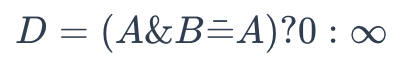
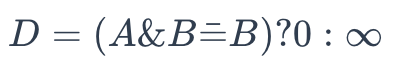
update metrics.md

diff --git a/site/en/reference/metric.md b/site/en/reference/metric.md
@@ -123,6 +123,34 @@ For example, suppose there are two strings, 1101 1001 and 1001 1101.
 
 11011001 ⊕ 10011101 = 01000100. Since, this contains two 1s, the Hamming distance, d (11011001, 10011101) = 2.
 
+### Structural Similarity
+
+When a chemical structure occurs as a part of a larger chemical structure, the former is called a substructure and the latter is called a superstructure. For example, ethanol is a substructure of acetic acid, and acetic acid is a superstructure of ethanol.
+
+Structural similarity is used to determine whether two chemical formulae are similar to each other in that one is the superstructure or substructure of the other.
+
+To determine whether A is a superstructure of B, use the following formula:
+
+![superstructure](../../../assets/superstructure.png "Superstructure")
+
+Where:
+
+- A is the binary representation of a chemical formula to be retrieved
+- B is the binary representation of a chemical formula in the database
+
+Once it returns `0`, **A** is not a superstructure of **B**. Otherwise, the result is the other way around.
+
+To determine whether A is a substructure of B, use the following formula:
+
+![substructure](../../../assets/substructure.png "subsctructure")
+
+Where:
+
+- A is the binary representation of a chemical formula to be retrieved
+- B is the binary representation of a chemical formula in the database
+
+Once it returns `0`, **A** is not a substructure of **B**. Otherwise, the result is the other way around.
+
 ## FAQ
 
 <details>
